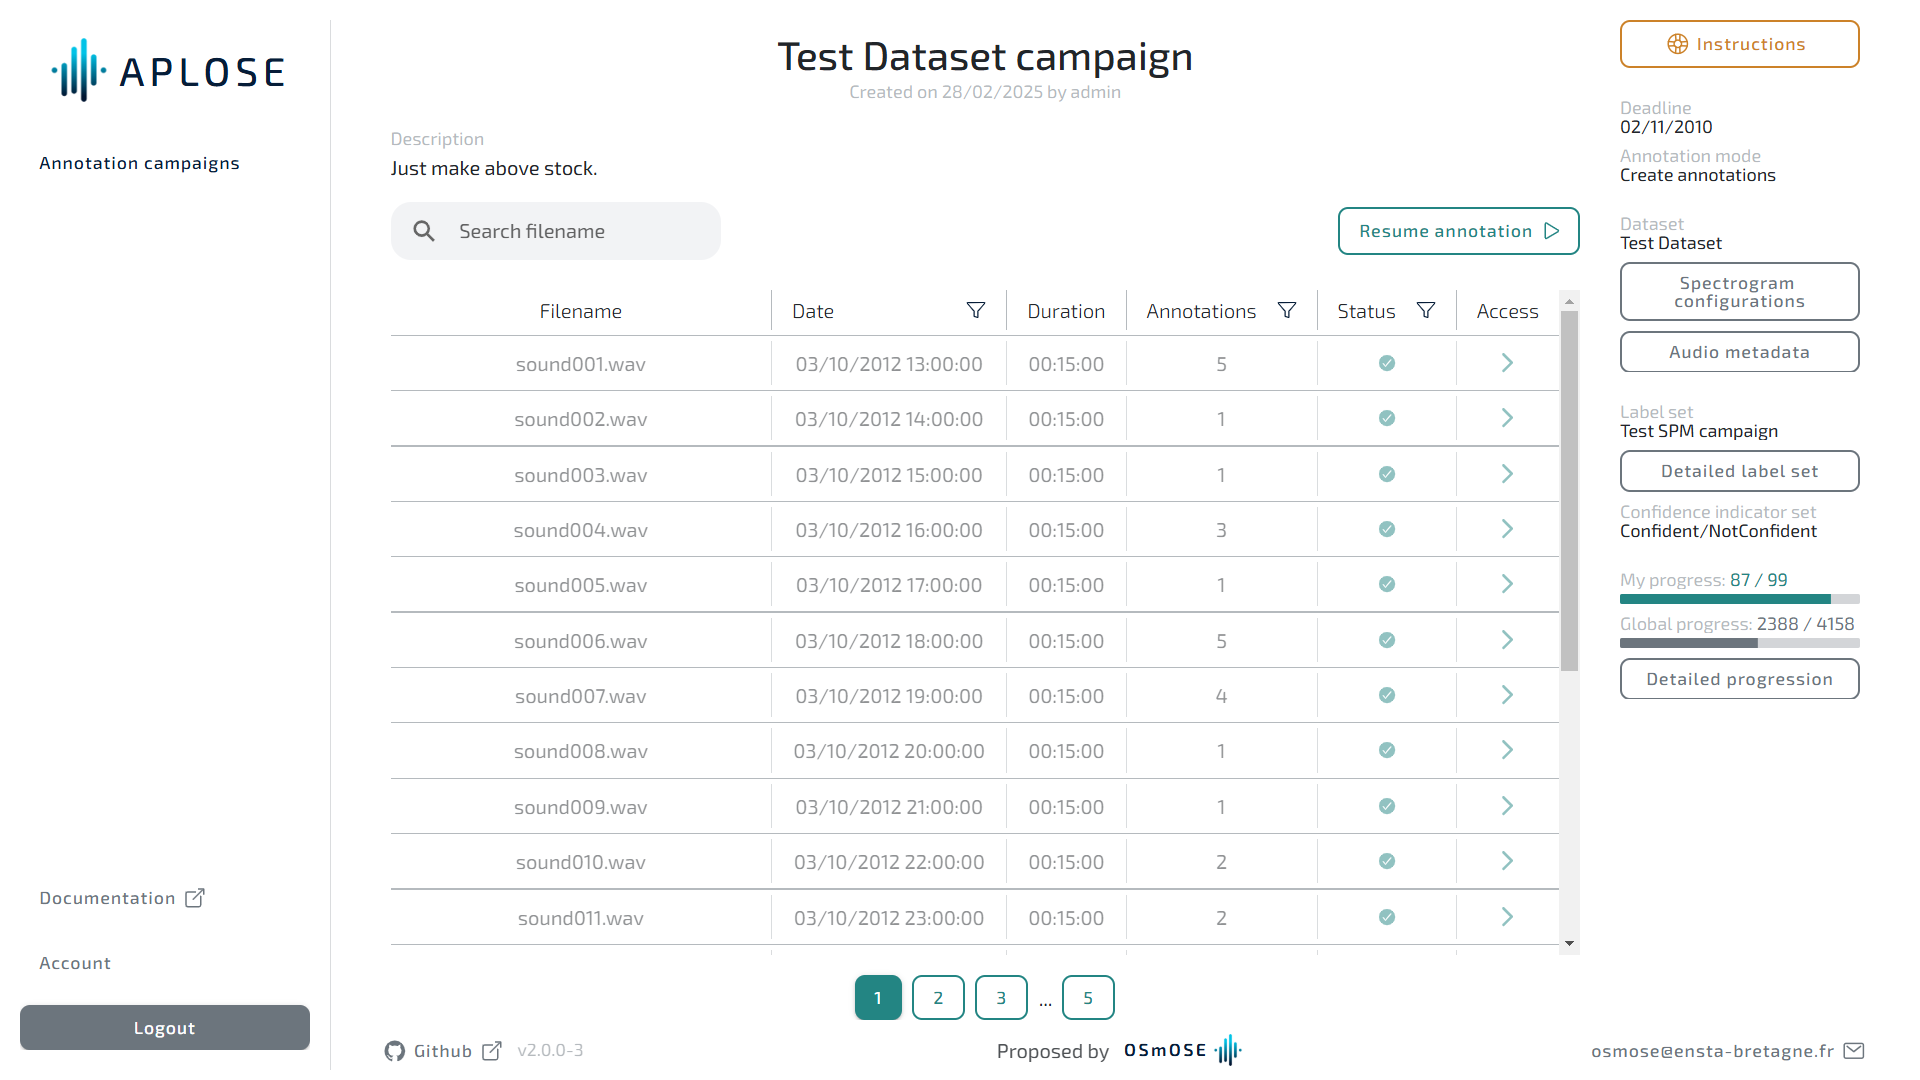
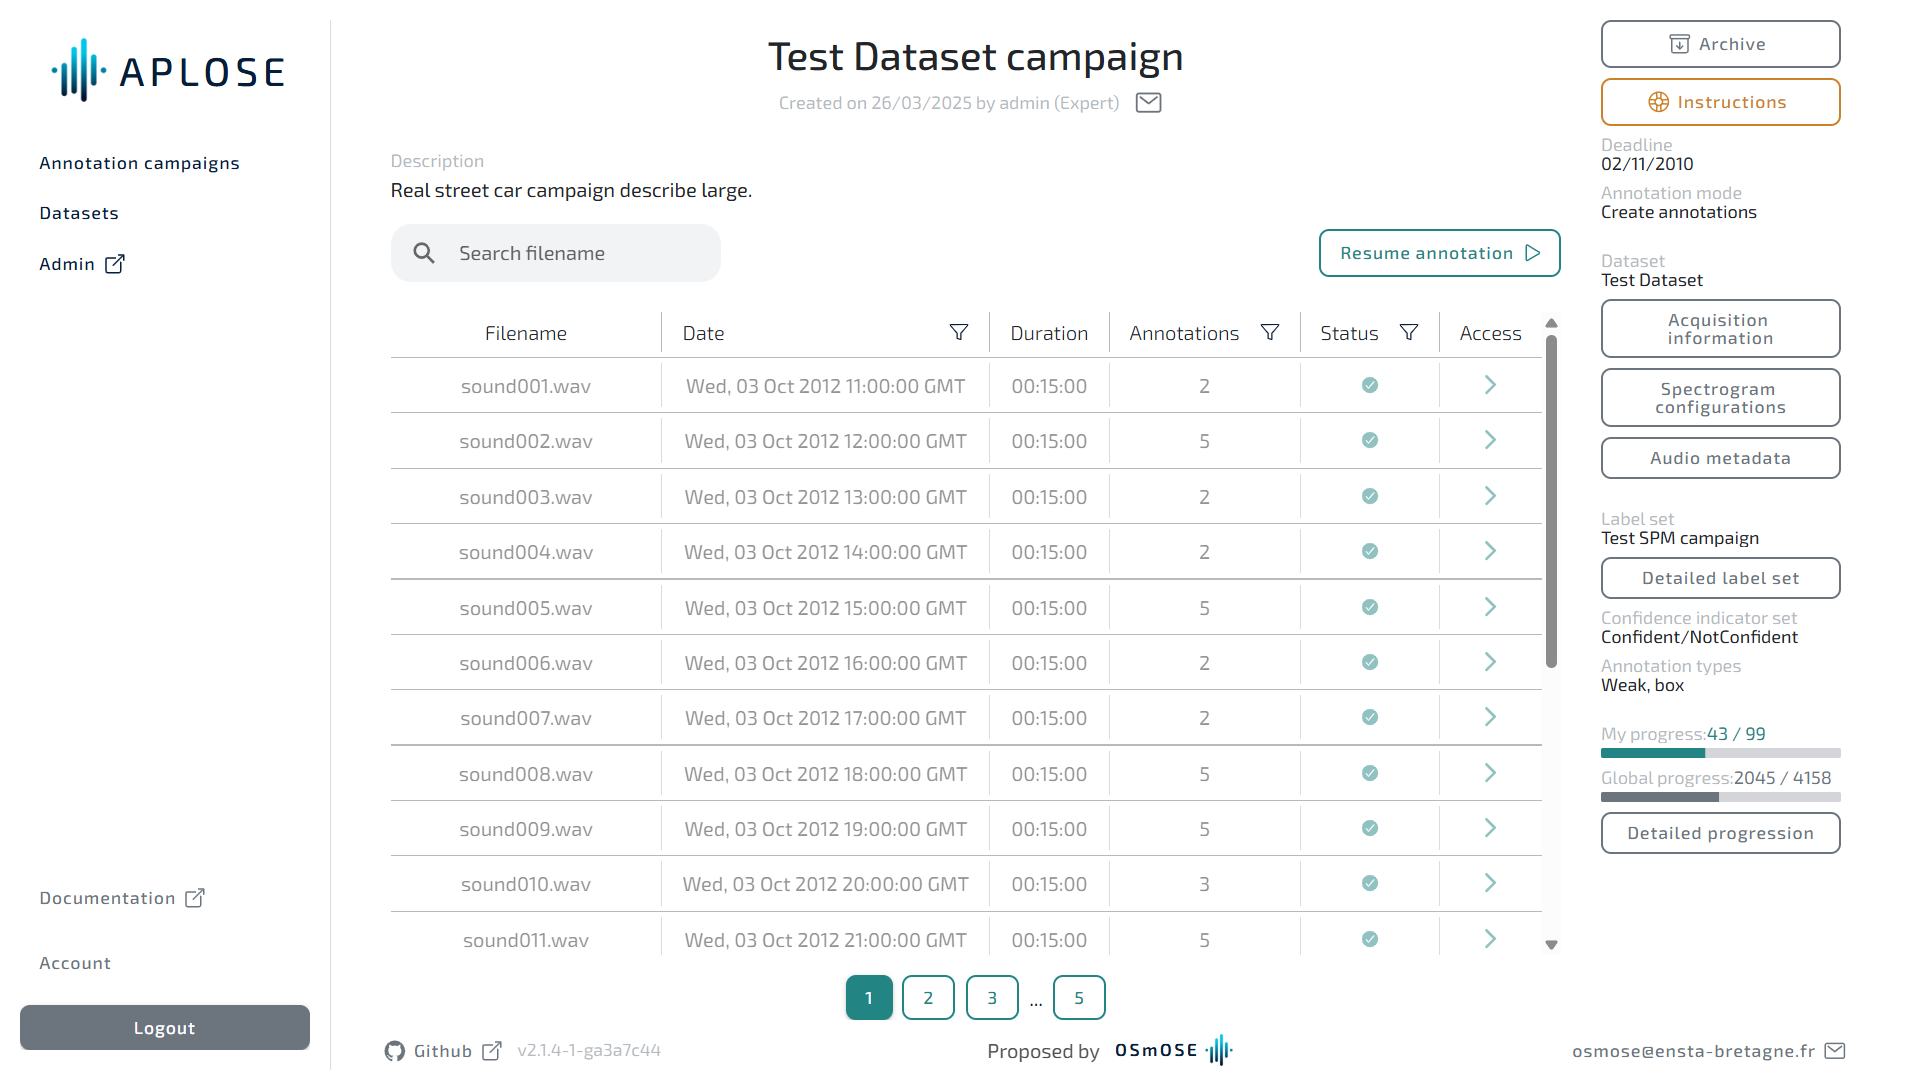
docs: Add file filters in documentation [ADEV-209]

diff --git a/frontend/docs/user/campaign.md b/frontend/docs/user/campaign.md
@@ -58,3 +58,16 @@ The file table contains the following columns:
 | Status      | Either you submitted your work on the file                                                                    |
 | Access      | A direct link to access the [annotator](./annotator)                                                          |
 
+By clicking on the funnel icon on the file table header, you can filter files.
+
+#### Date filters
+
+![](/campaigns/date-filters.png)
+
+#### Annotation filters
+
+![](/campaigns/annotations-filters.png)
+
+#### Status filters
+
+![](/campaigns/status-filters.png)
